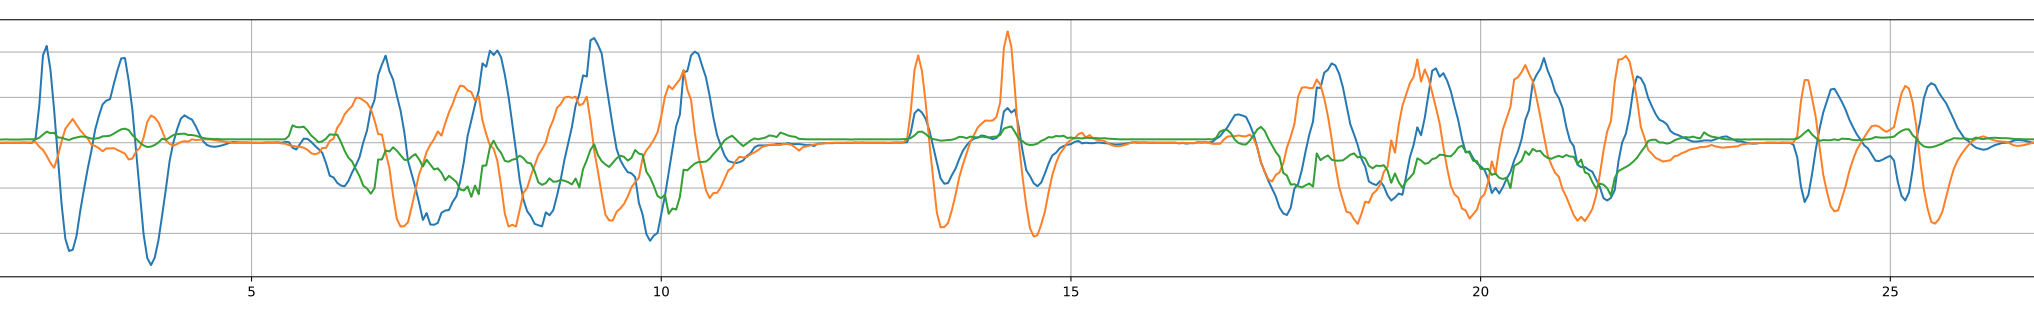
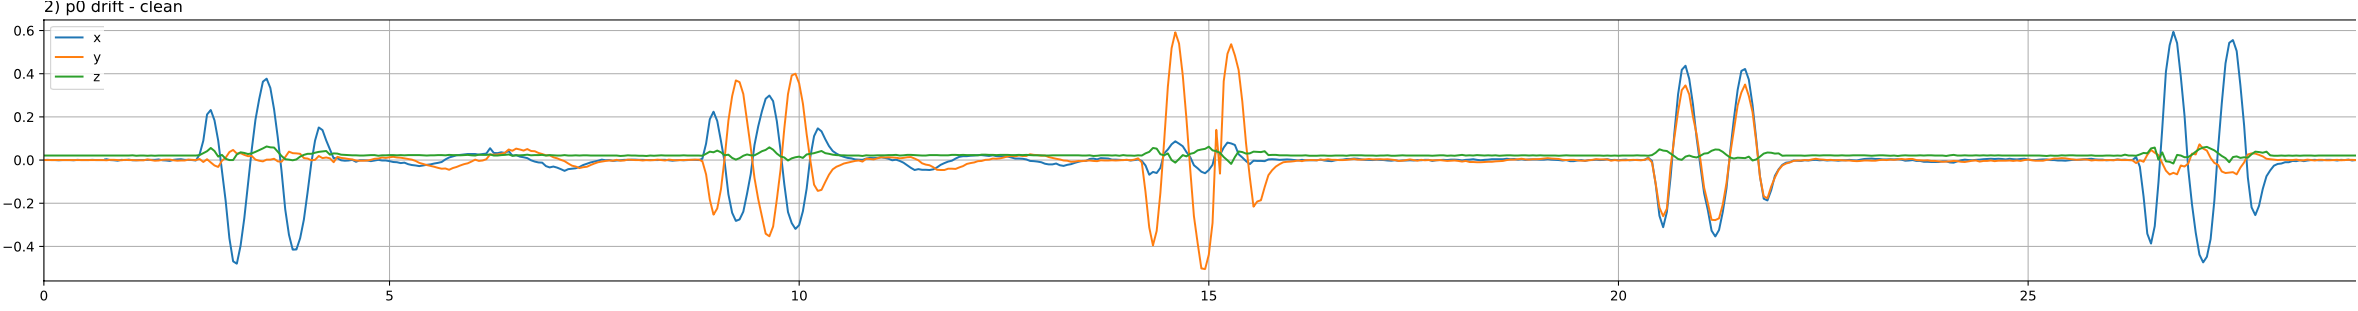
Add spherical coordinates, Madgwick filter and rewrite gravity-free data

Changed region(s): [[0.0, 0.0, 1.0, 0.9581]]

diff --git a/resources/development.tex b/resources/development.tex
@@ -5,9 +5,11 @@ The goal of this chapter is to illustrate the new implementations and changes to
 In the previous project's code, some time and memory optimizations have been made, minor bugs have been found and fixed and some other improvements have been done (e.g. replacing deprecated methods and libraries with newer ones).
 
 \section{MQTT QoS2 caching}
-As mentioned in the \textit{Unsolved Issues} chapter of Dario Piotrowicz's thesis \cite{Pio19}, there was a problem with unreliable Wi-Fi networks (an issue in the library's GitHub repository is still open \cite{githubQos2Issue}): all messages generated while a broken client-broker connection were not stored to be sent when the connection is re-established.
+As mentioned in the \textit{Unsolved Issues} chapter of Dario Piotrowicz's thesis \cite{Pio19}, there was a problem with unreliable Wi-Fi networks (an issue in the library's GitHub repository is still open \cite{githubQos2Issue}): all messages generated while a broken client-broker connection were discarded, instead of being stored to be sent when the connection will be re-established.
 
-To solve that issue have been implemented two caching queues, one for each connection: the playing session one and the neural network's pattern collection one. The cache size has been set to a safe value of 32 kilobytes (tested experimentally: bigger values led the Photon out of memory more often than not). The maximum number of messages that can be cached is stored in the \texttt{cache\_size} variable. With a maximum message size of 512 characters (511 effective characters because of the null terminator), the value is easily calculated as 32.
+To solve that issue have been implemented two caching queues, one for each connection: the playing session one and the neural network's pattern collection one.
+
+The cache size has been set to a safe value of 32 kilobytes (tested experimentally: bigger values led the Photon out of memory more often than not). The maximum number of messages that can be cached is stored in the \texttt{cache\_size} variable. With a maximum message size of 512 characters (511 effective characters because of the null terminator), the value is easily calculated as 32.
 
 The following is a graph of the playing session's connection caching implementation; the neural network one is analogous.
 \bigbreak
@@ -42,21 +44,24 @@ The following is a graph of the playing session's connection caching implementat
 
 This solution has made possible to damper temporary disconnections caused by instable connections.
 
+\section{Delay in real-time data plotting}
+\dots
+
 \section{Motion capture}
 In the software's previous version, developed and improved by Dario Piotrowicz \cite{Pio19} from the Marco Lanini's project \cite{Lan17}, the data processed by the device and sent to the server were:
 \begin{itemize}
-	\item yaw, pitch and roll angles;
-	\item acceleration with components in spherical coordinates system;
-	\item raw gyroscope data;
-	\item a velocity approximation.
+	\item device's orientation both in quaternions and yaw, pitch and roll angles;
+	\item device's acceleration in Cartesian and spherical coordinates system;
+	\item raw accelerometer, gyroscope and magnetometer data;
+	\item device's velocity approximation.
 \end{itemize}
 
 This work's aim was to detect \textit{discriminating features among different playing patterns}, by collecting and analyzing the sensors data stream; the analysis followed the flow in the data fusion schema (Figure \ref{old data fusion schema}), except for the velocity approximation.
 \bigbreak
 
-The velocity approximation, calculated by the \textit{Velocimeter} class \cite{Pio19}, was early excluded because of the practical difficulty in obtaining realistic values using only inertial sensors, where measurement errors are unavoidable, especially for miniature MEMS sensors.
+The velocity approximation, calculated by the \textit{Velocimeter} class \cite{Pio19}, was early excluded because of the practical difficulty in obtaining realistic values using only inertial sensors, where measurement errors are unavoidable, especially for miniature MEMS sensors \cite{Du15, Est14, Kow15, Liu01, Sei07, UsingAcc, Woo07, Yan06}.
 
-Direct integration of acceleration often causes unrealistic drifts in velocity, due to errors propagation; furthermore, measured acceleration not only carries random noise, but also presents with offset caused by temperature drift, resulting in estimation errors accumulated by integration process \cite{Du15, Est14, Kow15, Liu01, Sei07, UsingAcc, Woo07, Yan06}, that results in low accuracy.
+Direct integration of acceleration often causes unrealistic drifts in velocity, due to errors propagation; furthermore, measured acceleration not only carries random noise, but also presents with offset caused by temperature drift \cite{Kow15, Liu01, Woo07}, resulting in estimation errors accumulated by integration process, that results in low accuracy.
 
 In particular, two behaviors were miscalculated:
 \begin{itemize}
@@ -75,20 +80,25 @@ In particular, two behaviors were miscalculated:
 The first analytic phase dealt with raw accelerometer data, but the signal's noisiness and the presence of gravity have induced to desist. Nevertheless, especially for movements with strong accelerations (that simply increase the signal-to-noise ratio), the main waveform was recognizable.
 \bigbreak
 
-The analysis moved to Kalman-filtered data, which proved to be much cleaner and smoother, but still influenced by gravity; thus it would have been necessary a more complex training data collection, due to the lack of orientation invariance – the gravity decomposes among the axes in accordance with device's orientation, adding to other accelerations; to achieve such invariance it would be necessary to collect every pattern with the device rotated in any possible angle.
+TODO: graph
+\bigbreak
 
-Nevertheless, it was discovered that gravity-free acceleration data were computed by the device and sent to the server, \textit{not stored in the database}, but only used for the 3D visual representation, both in training and session recording phase. It was decided to keep such data and analyze it, to see whether it was reliable over time.
+The analysis moved to Kalman-filtered data, which proved to be much cleaner and smoother, but still influenced by gravity; thus it would have been necessary a more complex training data collection, due to the lack of orientation invariance – the gravity decomposes among the axes in accordance with device's orientation, adding to other accelerations, and affecting the neural network's training: the neural network would believe that the gravity was part of the pattern acceleration; consequently, the same pattern recorded with a different device orientation would be classified differently. To achieve such invariance it would be necessary to collect every pattern with the device rotated in any possible angle. 
+\bigbreak
+
+TODO: graph
+\bigbreak
+
+Nevertheless, it was discovered that the gravity free acceleration computed by the device and sent to the server was not stored in the database, but only used for the 3D visual representation. It was decided to store such data in the database along with other sensors data, and analyze it to see whether it was reliable over time. A smooth and gravity-free acceleration could have been the turning point for an efficient neural network training and future classification.
 \bigbreak
 
 \subsection{Gravity-free data}
-TODO: How was the gravity been removed?
+Analyzing gravity-free data, another problem showed up: after a few minutes of playing, the yaw diverged in an unrealistic way, accumulating errors that led the yaw angle to rotate counterclockwise, but only while the device was moved: with the still device, the yaw angle didn't change (but always kept the previous accumulated errors), but the more the device was moved, the more the error grew, and consequently the accelerations no longer matched the device's orientation. This error must not be confused with the \textit{yaw drift} problem, that leads the yaw to rotate constantly, and it's often caused by biases in gyroscope measurements (and that's the case of this project \cite{Pio19}) or poor/absent magnetometer calibration.
 
-Analyzing gravity-free data, another problem showed up: after a few minutes of playing, the yaw diverged in an unrealistic way; the more the device was moved, the more the yaw diverged, and consequently the accelerations no longer matched the device's orientation.
-
-The cause of error was discovered to be in the Madgwick's algorithm implementation, more precisely in the lack of yaw's convergence in its error-correction gradient descent phase. Unfortunately, different algorithm implementations that included the correction, and different values of the algorithm's gain parameter (the magnitude $\beta$ of the gyroscope measurement error\footnote{Increasing $\beta$ leads to faster bias corrections and higher sensitiveness to lateral accelerations.} \cite[13]{Mad10}) gave no better results over time, and worse, sometimes ghost accelerations were found. Then, the Lanini's version has been kept and the troubleshooting continued.
+The cause of the error was discovered to be in the Madgwick's algorithm implementation, more precisely in the lack of yaw's convergence in its error-correction gradient descent phase (see section \ref{Madgwick filter}). Unfortunately, different algorithm implementations that included the correction, and different values of the algorithm's gain parameter (the magnitude $\beta$ of the gyroscope measurement error\footnote{Increasing $\beta$ leads to faster bias corrections and higher sensitiveness to lateral accelerations.} \cite[13]{Mad10}) gave no better results over time, and worse, ghost accelerations were found. Then, the Lanini's version has been kept and the troubleshooting continued.
 \bigbreak
 
-The yaw's measurement was heavily affected by rotations around the Earth's $z$-axis (in other words, over the plane generated by the $x$ and $y$ axis), and the bigger the pitch angle, the bigger the error, as shown in the table below. Pitch and roll, on the contrary, were calculated without errors.
+The yaw's measurement was particularly affected by rotations around the Earth's $z$-axis (in other words, over the plane generated by the $x$ and $y$ axis), and the bigger the pitch angle, the bigger the error, as shown in the table below. Pitch and roll, on the contrary, were calculated almost without errors.
 \bigbreak
 
 \begin{table}[ht!]
@@ -108,34 +118,45 @@ Little yaw variations were also noticed with pitch-only movements: after a 360$^
 
 \begin{center}
 	\begin{figure}[ht]
-		\makebox[\textwidth]{\includegraphics[width=0.6\paperwidth]{img/plots/drift.png}}
+		\makebox[\textwidth]{\includegraphics[width=0.7\paperwidth]{img/plots/drift.png}}
 		\caption{Different accelerations for the same pattern.}
 	\end{figure}
 \end{center}
 
-During some tests, it was also noticed that recordings of the same pattern with different device orientations didn't split the acceleration differently among axes, revealing that the reference system was anchored to the Earth's center instead of the device's sensor. To align it back, the acceleration vector has been rotated by the 3 angles (of \textit{yaw, pitch and roll}) given by the Madgwick's algorithm, and that, as shown below, solved both problems: the device orientation has been aligned with the accelerations, and the reference system was global.
+During some tests, it was noticed another unexpected behavior: different recordings of the same pattern with different device rotations showed the same acceleration among axes (e.g. given a fixed three-dimensional path, following it with the truck facing forwards, backward, upside-down or other, would show exactly the same accelerations).
 \bigbreak
 
-The rotation has been performed through a 3D rotation matrix.
+TODO: Plot with the same movement with different orientations that shows the same data
 \bigbreak
 
-For 3-dimensional matrices, matrix-vector multiplication doesn't affect the speed meaningfully: the goal packets' frequency 22 Hertz has been always achieved (when the wireless connection allowed it) and however the C++ code is compiled by \texttt{GCC} with the \texttt{-Os} flag, that includes the loop unrolling optimization \cite{UsingGCC}.
+Since the accelerations were independent from the orientation of the device, the cause was necessarily the reference system's location, which proved to be global: the movements were shown as viewed by an external observer, placed in the Earth's center.
+
+To align the reference system back, it was sufficient to rotate the acceleration vector by the 3 orientation angles (of \textit{yaw}, \textit{pitch} and \textit{roll}) given by the Madgwick's algorithm, and that, as shown below, not only correctly brought the reference system back to a local point of view, but surprisingly solved the yaw alignment issue.
+
+The explanation of this (apparent) side-effect lies in how the gravity subtraction is performed: as shown in the Figure \ref{old data fusion schema}, the data obtained from the Kalman and Madgwick filters are used jointly. As discussed above, the Kalman filter does not present any problem, while the Madgwick one fails in the yaw angle calculation; hence, the resulting acceleration can only be wrong, and needs to be corrected by the same amount: the Madgwick's angle itself.
+\bigbreak
+
+The rotation has been performed through a three-dimensional rotation matrix. For three-dimensional matrices, matrix-vector multiplication doesn't affect the speed meaningfully, even for relatively weak CPUs like the one that runs in the Photon: the goal packets' frequency 22 Hertz \cite{Pio19} has been always achieved (when the wireless connection allowed it) and however the C++ code is compiled by \texttt{GCC} with the \texttt{-Os} flag, that includes the loop unrolling optimization \cite{UsingGCC}.
 
 \begin{center}
 	\begin{figure}[ht]
-		\makebox[\textwidth]{\includegraphics[width=0.6\paperwidth]{img/plots/nodrift.png}}
-		\caption{Image of \textit{perfect} data.}
+		\makebox[\textwidth]{\includegraphics[width=0.7\paperwidth]{img/plots/nodrift.png}}
+		\caption{Image of correct accelerations.}
 	\end{figure}
 \end{center}
 
 \subsection{Fine tuning: magnetic distortions}
 Once achieved a reliable gravity-filtered acceleration approximation, it was possible to perform some fine tuning.
+\bigbreak
 
 It is known that magnetic and inertial sensors can be influenced by magnetic disturbance \cite{Fan17}.
+There are two types of magnetic distortions:
+\begin{enumerate}
+	\item \textit{soft iron}: it's a temporary influence that appears when a material is affected by the Earth's magnetic field, and it's induced from metals that are non permanently magnetised (they don't generate a magnetic field themselves) \cite{Cro15}. It causes errors in the measured direction of the Earth's magnetic field, and since it depends on the orientation of the material relative to the sensor and the magnetic field, it cannot be compensated by a constant \cite{CompensatingIron};
+	\item \textit{hard iron}: it's produced by materials that exhibit a constant, additive field to the Earth's magnetic field \cite{CompensatingIron}, and it can be simply removed by a constant offset, calculated through calibration \cite{CompensatingIron, Geb06, Kok12}.
+\end{enumerate}
 
-TODO: What types of distortions exist?
-
-Madgwick's algorithm is able to remove \textit{soft iron} distortions \cite[11-12]{Mad10} that cause errors in the measured direction of the Earth's magnetic field. \textit{Hard iron} distortions are produced by materials that exhibit a constant, additive field to the Earth's magnetic field \cite{CompensatingIron}, and they can be removed through calibration \cite{CompensatingIron, Geb06, Kok12} [CITE from 42 to 45 in Madgwick's report]. The calibration has been performed by the SparkFun's Arduino library.
+Madgwick's algorithm is able to remove \textit{soft iron} distortions \cite[11-12]{Mad10}, and the calibration to remove \textit{hard iron} distortions has been performed by the SparkFun's Arduino library.
 \bigbreak
 
 Unfortunately, there are non-constant interferences that still affect the sensors readings, such as the magnetic field generated by the current passing through the USB cable for charging the battery.
@@ -143,11 +164,12 @@ Its removal is much harder, because requires to analyze how much current is flow
 
 \begin{center}
 	\begin{figure}[ht]
-		\makebox[\textwidth]{\includegraphics[width=0.6\paperwidth]{img/plots/battery.png}}
+		\makebox[\textwidth]{\includegraphics[width=0.7\paperwidth]{img/plots/battery.png}}
 		\caption{Orientation affected by the battery charging.}
 	\end{figure}
 \end{center}
 
+\subsection{Final data schema}
 The current data flow is illustrated by the schema:
 
 \begin{center}
@@ -156,6 +178,3 @@ The current data flow is illustrated by the schema:
 		\caption{Current data fusion schema.}
 	\end{figure}
 \end{center}
-
-\section{Delay in real-time data plotting}
-\dots

diff --git a/resources/background.tex b/resources/background.tex
@@ -1,5 +1,4 @@
 \chapter{Background}
-This chapter describes the hardware and software tools used in the project.
 
 \section{Hardware}
 \subsection{Particle Photon}
@@ -55,8 +54,8 @@ MongoDB stores data records as BSON documents. BSON is a binary representation o
 \subsection{TensorFlow}
 \dots
 
-\section{Rotation formalisms in three dimensions}
-This section describes the rotation formalisms used in the project.
+\section{Rotation formalisms}
+This section describes the mathematical formalisms to represent three-dimensional rotations in the project.
 
 \subsection{Tait–Bryan angles}
 Tait–Bryan angles (also called nautical angles or \textit{yaw, pitch and roll}) are a variant of Euler angles, normally used for aerospace applications (wherein they are often called Euler angles). Euler angles are a minimal representation (a set of three numbers) of relative orientation. This set of three angles describes a sequence of rotations about the axes of a reference frame. There are, however, sets that describe the same orientation: different combinations of $x$, $y$, and $z$ axes lead to different Euler angles \cite{Rob20}.
@@ -68,11 +67,10 @@ If the rotation occurs about the axes of the original coordinate system, which r
 
 \begin{center}
 	\begin{figure}[ht]
-		\makebox[\textwidth]{\includegraphics[width=0.3\paperwidth]{img/plane.pdf}}
+		\makebox[\textwidth]{\includegraphics[width=0.35\paperwidth]{img/plane.pdf}}
 		\caption{Yaw ($\psi$), pitch ($\theta$) and roll ($\varphi$) angles for an aircraft \cite{WikimediaPlane}.}
 	\end{figure}
 \end{center}
-
 Representations with Euler angles share a problem called \textit{gimbal\footnote{A \textit{gimbal} is a pivoted support that allows the rotation of an object about a single axis.} lock\footnote{The word lock is misleading: no gimbal is restrained.}}, that occurs when the orientation of the sensor cannot be uniquely represented, and causes a loss of a degree of freedom \cite{Dil18}.
 
 An example: when the device pitches up 90$^{\circ}$ its pitch and yaw gimbals become aligned, and changes to roll and yaw apply the same rotation to the device \cite[68]{Tit04}.
@@ -97,10 +95,9 @@ where \textbf{i}, \textbf{j} and \textbf{k} are the standard orthonormal basis i
 \begin{center}
 	$\textbf{i}^2 = \textbf{j}^2 = \textbf{k}^2 = \textbf{ijk} = -1$
 \end{center}
+Quaternions have a fundamental role in the project, since the Madgwick filter \cite{Mad10} and the 3D representation through Three.js heavily rely on them.
 
-Algebra behind quaternions rotations will not be treated, because its complexity has been deemed too high for this document's purposes, but it can be found in several math books, such as \cite[127-134]{Kui99}.
-
-Nevertheless, quaternions are fundamental in the project since the Madgwick filter \cite{Mad10} and the 3D representation through Three.js heavily relies on them.
+Algebra behind quaternions rotations will not be treated, because its complexity doesn't allow to simplify the main concepts in few lines; however, it can be found in \cite[127-134]{Kui99}.
 
 \subsection{Rotation matrix}
 In two dimensions, a rotation matrix $R \in \mathbb R^{2 \times 2}$ is a matrix that is used to perform a rotation in Euclidean space. Given a vector $\vec u \in \mathbb R^2$ and an angle $\theta \in \mathbb R$, the vector $\vec u$ rotated through an angle $\theta$ can be written as $R(\theta) \vec u$.
@@ -132,10 +129,7 @@ rotates points in the $xy$-plane counterclockwise in a \textit{right-handed coor
 		x\sin \theta +y\cos \theta
 	\end{pmatrix}}
 \]
-\bigbreak
-
 How to represent \textit{yaw, pitch and roll}?
-\bigbreak
 
 A \textit{yaw} is a counterclockwise (CCW) rotation of $\alpha$ on the $z$-axis. The rotation matrix is
 \[
@@ -147,7 +141,7 @@ A \textit{yaw} is a counterclockwise (CCW) rotation of $\alpha$ on the $z$-axis.
 	\end{pmatrix}
 \]
 Note that the upper left values compose a 2D rotation matrix, and the coordinates on the third dimension (around whom the rotation happens) are left unchanged. The same applies to the other two matrices, but with the second and the first dimension.
-\bigbreak
+\bigskip
 
 A \textit{pitch} is a CCW rotation of $\beta$ on the $y$-axis. The rotation matrix is
 \[
@@ -181,7 +175,25 @@ It is important to note that $R(\alpha, \beta, \gamma)$ performs the roll first,
 Given an acceleration vector $\vec a$, the rotated one is $\vec a_r = R(\alpha, \beta, \gamma) \vec a$.
 
 \subsection{Spherical coordinates}
-\dots
+Spherical coordinates specify the position of a point in a three-dimensional space using three numbers: $\rho$, $\theta$ and $\phi$, where $\rho$ represents the radial distance of the point from the origin, $\theta$ represents the angle of the the $z$-axis with the line that represents the distance, and $\phi$ represents the angle between the $x$-axis and the projection of the point on the plane generated by the $xy$-axes \cite{Sok}.
+
+\begin{center}
+	\begin{figure}[ht]
+		\makebox[\textwidth]{\includegraphics[width=0.45\paperwidth]{img/spherical.jpg}}
+		\caption{Spherical coordinates of the point P \cite{HartleySpherical}.}
+	\end{figure}
+\end{center}
+The spherical coordinates are related to the Cartesian ones ($x$, $y$ and $z$) by the formulas \cite{Sok}
+
+\[
+	x = \rho \cos\phi \sin\theta \quad\quad y = \rho \sin\phi \sin\theta \quad\quad  z = \rho \cos\theta
+\]
+where the typical constraints
+
+\[
+	0 \leq \rho < \infty, \quad\quad 0 \leq \phi < 2\pi, \quad\quad 0 \leq \theta \leq \pi
+\]
+ensure an unique representation.
 
 \section{Filters}
 Motion representation can be obtained through accelerometer reading within the $x$, $y$ and $z$ axes, that make up an acceleration vector.
@@ -189,7 +201,7 @@ Motion representation can be obtained through accelerometer reading within the $
 MEMS sensors are known to be very noisy, especially when working at high reading frequencies \cite[7]{Mat08}, and the noise is of a specific type, the Additive White\footnote{White noise is a random signal with constant amplitude across the whole frequency spectrum.} Gaussian\footnote{Noise having a probability density function equal to that of the normal distribution, which is also known as the Gaussian distribution \cite{WikipediaGaussianNoise}.} Noise (AWGN) \cite{Yas03}. An effective way to remove AWGN is to use the Kalman filter \cite{Ko07, Sär15}, as it assumes that the errors are Gaussian \cite{Kal60}.
 
 \subsection{Kalman filter}
-Kalman filtering, also known as linear quadratic estimation (LQE) \cite[ix]{Ma19}, is an efficient recursive algorithm that uses a series of measurements observed over time, containing statistical noise and other inaccuracies, and produces estimates of unknown variables \cite[7-8]{Ma19} (the internal state of a linear dynamic system\footnote{Linear dynamic systems are systems in which its evolution is described by a linear function and hence satisfies the superposition principle.} \cite[47]{Ma19}) that tend to be more precise than those based on a single measurement alone, by using Bayesian inference and estimating a joint probability distribution over the variables for each timeframe \cite[8]{Ma19}.
+Kalman filtering, also known as linear quadratic estimation (LQE) \cite{Ma19}, is an efficient recursive algorithm that uses a series of measurements observed over time, containing statistical noise and other inaccuracies, and produces estimates of unknown variables \cite[7-8]{Ma19} (the internal state of a linear dynamic system\footnote{Linear dynamic systems are systems in which its evolution is described by a linear function and hence satisfies the superposition principle.} \cite[47]{Ma19}) that tend to be more precise than those based on a single measurement alone, by using Bayesian inference and estimating a joint probability distribution over the variables for each timeframe \cite[8]{Ma19}.
 
 Kalman filter is most often conceptualized as two distinct phases \cite[12-13]{Ma19}:
 
@@ -201,7 +213,19 @@ Kalman filter is most often conceptualized as two distinct phases \cite[12-13]{M
 The Kalman filter has numerous applications in technology, like navigation and control of vehicles, particularly aircraft, spacecraft and dynamically positioned ships \cite{WikipediaKalman}.
 
 \subsection{Madgwick filter} \label{Madgwick filter}
-In 2009 Sebastian O. H. Madgwick developed an orientation filter for IMU (6DoF, tri-axis gyroscope and accelerometer) and MARG (9DoF, IMU + tri-axis magnetometer) sensors. 
+In 2009 Sebastian O. H. Madgwick, as part of his Ph.D research at the University of Bristol, developed an orientation filter for IMU (6DoF: tri-axis gyroscope and accelerometer) and MARG (9DoF: IMU + tri-axis magnetometer) sensors.
+
+The filter is based on an optimized gradient-descent algorithm that fuses together the \textit{raw} data from the sensors \cite{Mad10}, and uses an analytically derived Jacobian matrix\footnote{A matrix of partial derivatives of a function.} to find a quaternion that minimizes the estimation's error \cite{Che12}.
+\bigbreak
+
+There are three interesting features \cite{Mad10}:
+\begin{enumerate}
+	\item it is computationally inexpensive (thanks to the quaternion representation of rotation);
+	\item it is effective at relatively low sampling rates, e.g. 10 Hz. This is a big advantage, because Kalman-based filters may require sampling rates that exceed the bandwidth;
+	\item its parameters can be changed according to the usage environment characteristics.
+\end{enumerate}
+
+The low computational load reduces the hardware and power necessary for inertial movement tracking, allowing to create lightweight and inexpensive systems, capable of functioning for extended periods of time \cite{Mad11}.
 
 \section{Neural networks}
 \dots
